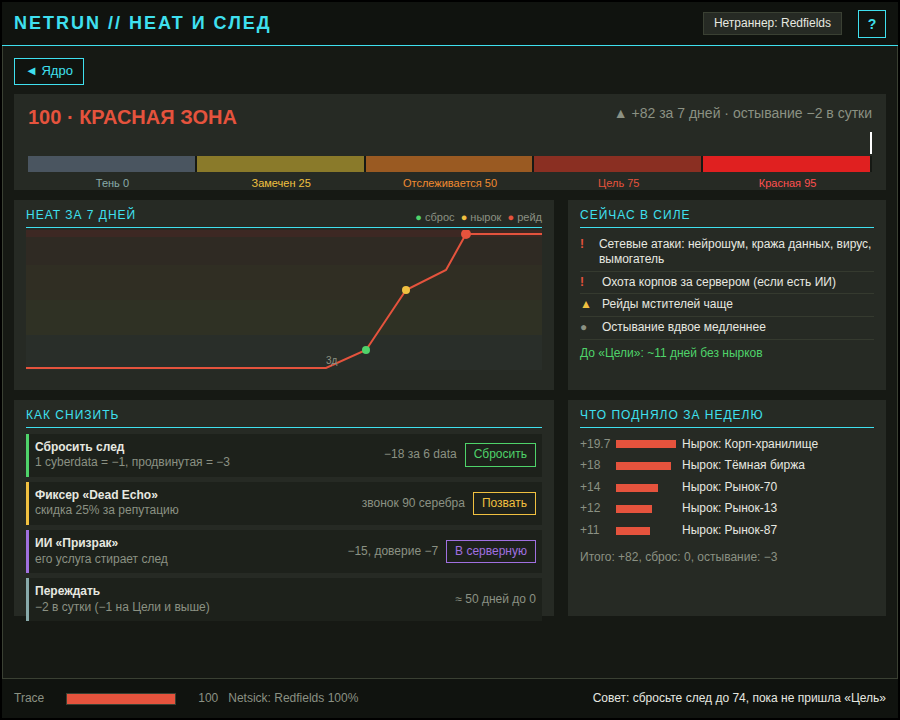
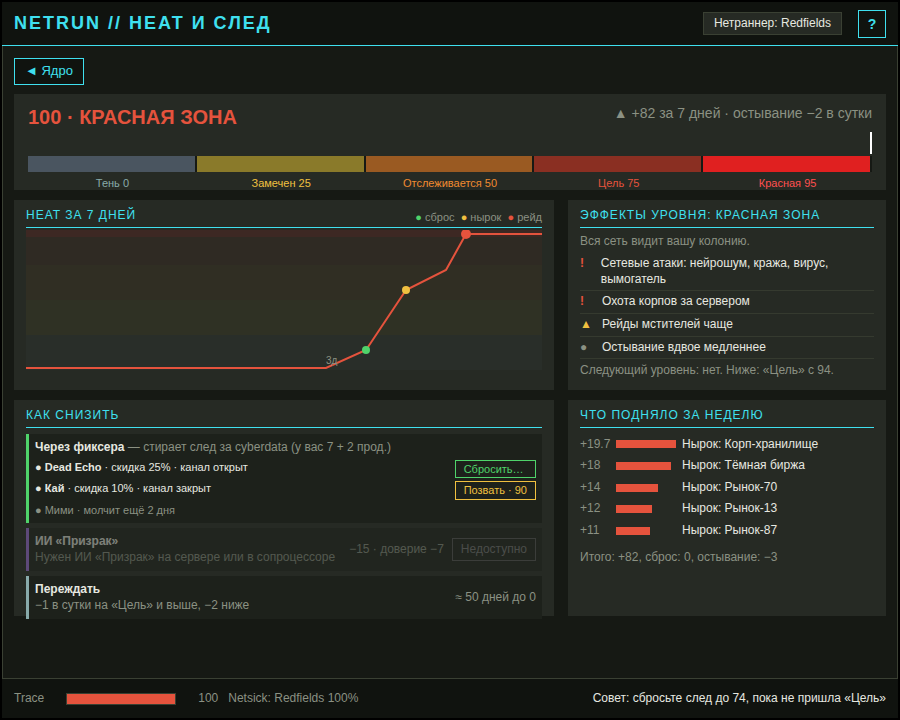
Docs: Heat v2 level effects and reduce cards, help guide mode
Claude-Session: https://claude.ai/code/session_017ZG3mG5hByzfd4YGz9ze4s

diff --git a/docs/HEAT_V2.md b/docs/HEAT_V2.md
@@ -6,8 +6,11 @@
 1. **Заголовок:** «◄ Ядро», справа кнопка «?» (справка на теме «Heat и след»).
 2. **Hero-полоса:** слева крупно «100 · КРАСНАЯ ЗОНА» (цвет уровня), справа тренд «▲ +82 за 7 дней · остывание −2 в сутки». Под ними шкала из 5 цветных сегментов, белый маркер текущего значения со стрелкой, подписи сегментов под шкалой (название и порог), без наложения: подпись «сейчас» живёт в заголовке, не на шкале.
 3. **График за 7 дней** (слева): фон из пяти зон, линия Heat, цветные точки событий (зелёный сброс, жёлтый нырок, красный рейд/атака), подписи оси «7д назад / 3д / сейчас», легенда в углу, подсказка по наведению на точку («Нырок: Корп-хранилище, +19.7»). Если данных меньше суток, показывать «График заполнится по мере игры» вместо пустого поля.
-4. **Сейчас в силе** (справа): список того, что действует на текущем уровне (иконка серьёзности и текст), снизу «До следующего уровня: N дней без нырков» или «До остывания ниже X».
-5. **Как снизить** (слева, карточки-действия): каждая строка = название, механика, расчёт «−18 за 6 data», кнопка (Сбросить / Позвать / В серверную). Недоступное приглушено с причиной. Источники: сброс cyberdata, фиксер (цена звонка с учётом скидки), ИИ (Призрак и др., цена в доверии), переждать (скорость остывания и срок до 0).
+4. **Эффекты уровня** (справа, решение Maxim): заголовок «ЭФФЕКТЫ УРОВНЯ: <название>», одна фраза описания уровня, список особенностей именно этого уровня (иконка серьёзности и текст: какие события возможны, как меняется остывание), внизу «Следующий уровень / ниже: ...». Содержимое берётся из Defs уровня.
+5. **Как снизить** (слева, переработано по замечаниям Maxim):
+   - Одна карточка **«Через фиксера»**: объясняет «стирает след за cyberdata», показывает, сколько cyberdata у игрока, и **список фиксеров пула** (имя, скидка, статус канала). У фиксера с открытым каналом кнопка «Сбросить…» (открывает окно сброса уже для этого фиксера, в заголовке окна его имя), у фиксера с закрытым каналом «Позвать · цена», у молчащего строка серым с сроком. Так нет безымянной кнопки «Сбросить след» и нет дублирования «Сбросить» и «Фиксер».
+   - Карточка **«ИИ „Призрак“»**: если ИИ-Призрака нет (ни на сервере, ни в сопроцессоре, ни в носителе) карточка затемнена, кнопка «Недоступно», подпись «Нужен ИИ „Призрак“…». Если есть: эффект («−15», цена в доверии) и кнопка перехода к ИИ.
+   - Карточка **«Переждать»**: только информация (скорость остывания и срок до 0).
 6. **Что подняло за неделю** (справа): топ-5 источников, число и полоска пропорциональной длины, итог внизу «Итого: +82, сброс 0, остывание −3».
 7. **Нижняя строка** терминала общая; справа в ней «Совет» одной фразой (по приоритету: сбросить пока ниже порога, позвать фиксера, переждать).
 

diff --git a/docs/HELP.md b/docs/HELP.md
@@ -34,3 +34,18 @@
 1. HelpPageDef, окно, поиск, «?» во всех экранах, F1.
 2. Тексты тем 1–3 (EN+RU).
 3. Тексты тем 4–8, токены чисел, замки и «новое».
+
+## Режим гайда по областям меню (решение Maxim)
+Макет: docs/ui-mockups/12-guide-mode.png.
+Кнопка «?» делает две вещи: короткое нажатие открывает справку (энциклопедию) на теме экрана, а рядом в заголовке есть вторая кнопка «◎ Гайд» (или в меню «?» два пункта: «Справка» и «Гайд по экрану»).
+**Как работает гайд**
+1. Экран затемняется. Области меню обводятся рамками с номерами, остальное приглушено.
+2. Наведение на область подсвечивает её ярче и показывает название в подсказке.
+3. Клик по области открывает интерактивный мини-гайд: окошко рядом с областью, шаги «Далее/Назад», «Выход (Esc)». В шаге есть текст и необязательное «Попробуйте: ...» (например, «наведите на кнопку»), шаг может отмечать нужный элемент пульсацией.
+4. Внизу строка режима: «наведите на область и кликните · Esc выйти». Иногда в углу счётчик областей, которые игрок уже посмотрел.
+**Реализация**
+- Области регистрируются самими экранами: в OnGUI вызов `GuideRegistry.Area(id, rect)` для каждого блока. В режиме гайда поверх рисуется затемнение и рамки по этим rect, поэтому гайд работает при любом размере окна.
+- `GuideAreaDef` (XML): defName, screen, order, titleKey, steps (список: textKey, hintKey, highlightId). Тексты в Keyed/DefInjected EN+RU.
+- Гайд связан со справкой: у каждой области есть ссылка «Подробнее в справке» на статью.
+- Состояние (какие гайды посмотрены) в сохранении, кнопка «Гайд» пульсирует при первом заходе на новый экран.
+- Первая версия: Core, Шлюз и панель ноды, Клуб, Серверная, Heat. Остальные экраны потом.
